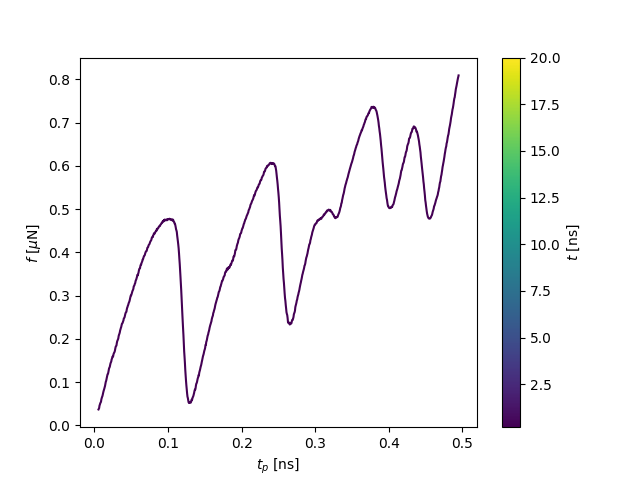
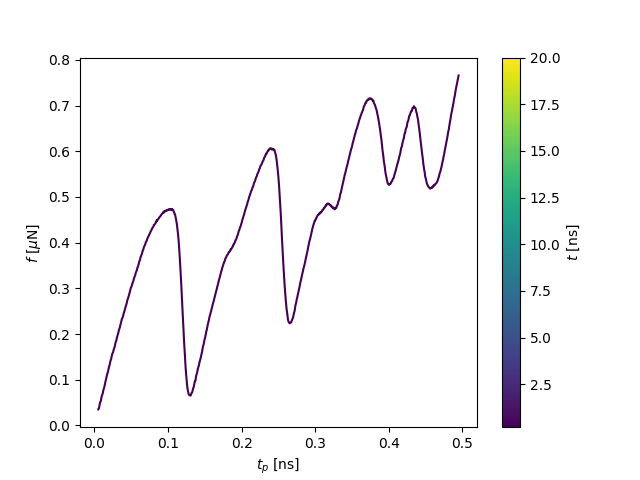
end of day. lots of runs

diff --git a/python/plot/plot_load_curves.py b/python/plot/plot_load_curves.py
@@ -28,7 +28,7 @@ erratic = True
 project_dir = '../../'
 fig_dir = project_dir + 'fig/'
 
-
+seeds = [27278,70295,98184,31906,35578,69872]
 
 if erratic:
     load_curve_dir = project_dir + 'txt/load_curves/erratic/'
@@ -50,10 +50,11 @@ load_curve_files = template_lc.format(temp, vel, force, orientation, grid[0], gr
 load_curves_all = []
 
 for file in glob(load_curve_files):
-    print(file)
     load_curves = loadtxt(file)
-    load_curves_all.append(load_curves)
-    print(np.shape(load_curves))
+    for seed in seeds:
+        if str(seed) in str(file):
+            print(file)
+            load_curves_all.append(load_curves)
 
 load_curves_all[1] = load_curves_all[1][:len(load_curves_all[0])]
 
@@ -76,9 +77,11 @@ with open(load_curve_file, 'r') as f:
 max_point_files = template_ms.format(temp, vel, force, orientation, grid[0], grid[1])
 max_static_all = []
 for file in glob(max_point_files):
-    print(file)
-    max_static = loadtxt(file)
-    max_static_all.append(max_static)
+    for seed in seeds:
+        if str(seed) in str(file):
+            max_static = loadtxt(file)
+            max_static_all.append(max_static)
+            print(file)
 max_static = mean(max_static_all, axis=0)
 
 push_times = [0.2, 2, 20]
@@ -90,7 +93,8 @@ axcb = fig.colorbar(lc, ax=ax)
 axcb.set_label(r'$t$ [ns]')
 plt.xlabel(r"$t_p$ [ns]")
 plt.ylabel(r"$f$ [$\mu$N]")
-plt.savefig(fig_dir + 'png/load_curves_2450_all.png')
+plt.title(f"load curves for {len(seeds)} runs, force {force}, vel {vel}")
+plt.savefig(fig_dir + 'png/load_curves_runs6_rseed37144.png')
 #plt.savefig(fig_dir + 'pgf/load_curves_2450_all.pgf')
 #plt.show()
 stop

diff --git a/python/post/get_load_curves.py b/python/post/get_load_curves.py
@@ -55,7 +55,10 @@ def get_load_curves():
 
     # collect log files
     times = [500]
-    seeds = [31906, 35578, 69872, 94879]
+
+    seeds = [27278, 70295,98184]  
+
+    # [31906, 35578, 69872, 94879] push seeds who used relax 37144
 
     for seed in seeds:
         logfiles = []

diff --git a/python/run/run_push.py b/python/run/run_push.py
@@ -99,7 +99,7 @@ push_time = 500 #piko seconds. breaks around 100 acording to even
 
 push_seed = np.random.randint(10000, 100000)
 
-for relax_seed in []: #used: 37144
+for relax_seed in [94514]: #used: 37144, 48329, 94514
     
     if grid:
         if erratic:
